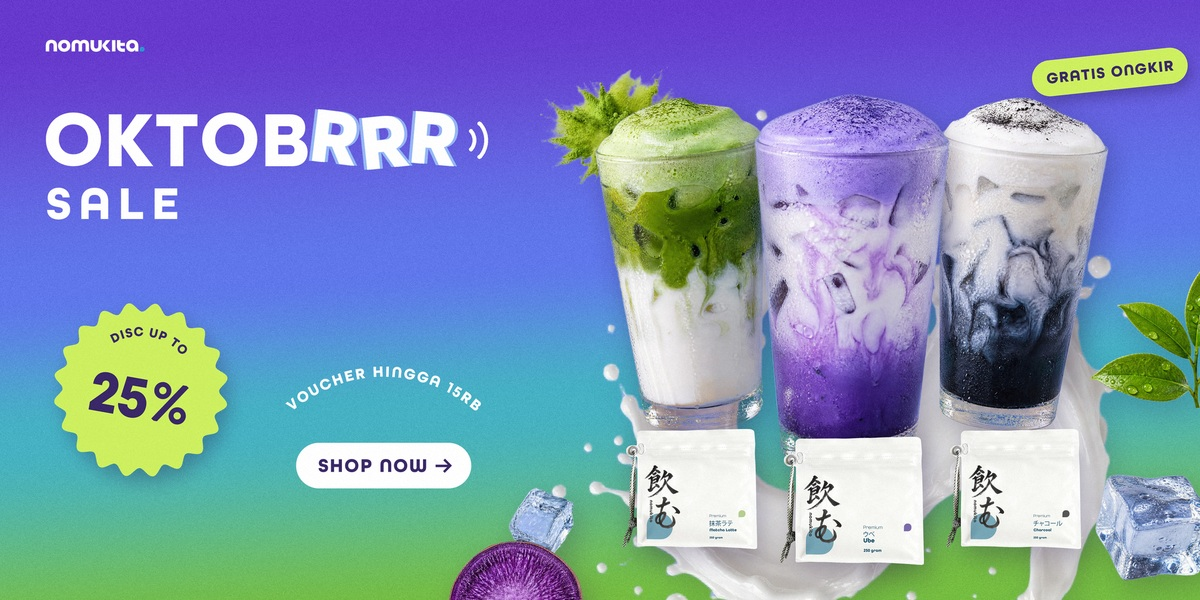
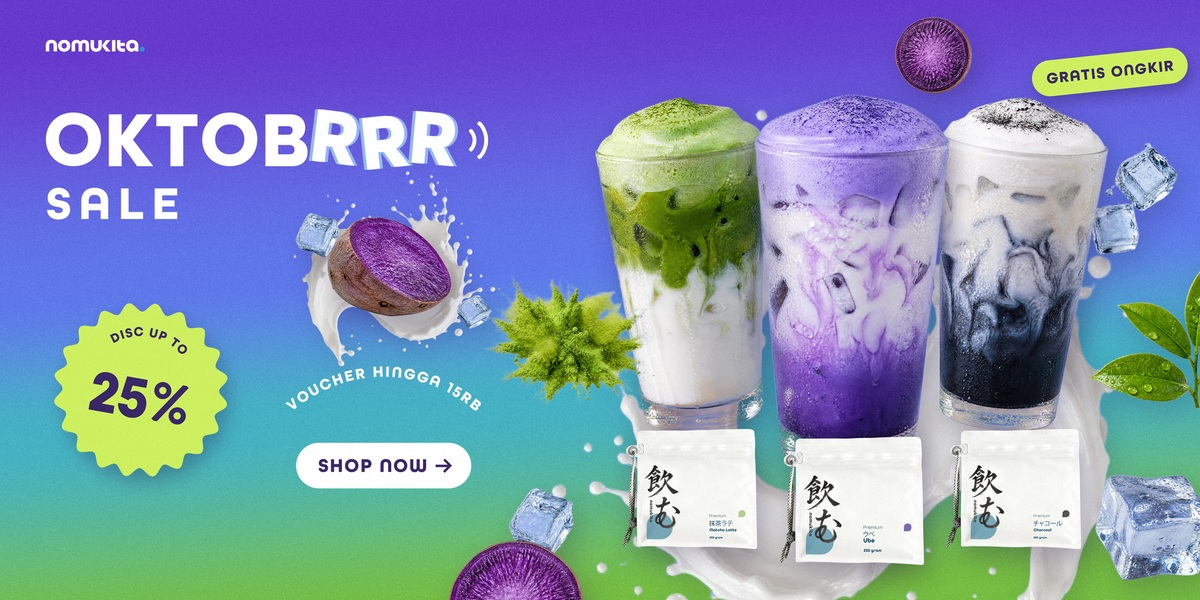
OKTOBRRR 2:1: richer ingredients, front matcha burst
Floating ube half on a small milk splash fills the space above the
voucher arc, extra ice cubes and a small ube slice, and the matcha
powder now bursts in front of the matcha glass toward the CTA.

Claude-Session: https://claude.ai/code/session_01Bv3a5UzTxRJwy8L4VxmgVZ

diff --git a/banners/marketplace-iced-latte/layouts.py b/banners/marketplace-iced-latte/layouts.py
@@ -736,3 +736,30 @@ OW1.update(head="OKTOBRRR", head_x=72, head_y=150, head_size=132, head_tr=0, hea
 OW1["texts"] = [dict(s="SALE", x=76, y=282, size=78, tr=12)] + SW2["texts"][1:]
 OW2 = dict(OW1); OW2.update(head_y=182)
 OW2["texts"] = [dict(s="SALE", x=76, y=314, size=78, tr=12)] + SW2["texts"][1:]
+
+# 2:1 richer: more ube / matcha / milk / ice, matcha powder bursting in FRONT, floating ube over a milk splash
+OW3 = dict(OW2)
+OW3["back"] = [
+    X1["back"][0],                                                                   # milk wave behind the trio
+    dict(name="milk", cx=640, cy=470, height=430, rot=-62, flip=True, shadow=0.14),  # second splash carrying the ube
+    X1["back"][2],                                                                   # tea leaves, right edge
+]
+OW3["mid"] = [
+    dict(name="ubeslice_S", cx=1556, cy=92, width=118, rot=-20, shadow=0.26),
+    dict(name="icecube_0", cx=1885, cy=330, width=170, rot=8, shadow=0.22),
+] + [it for it in X1["mid"] if it["name"] != "ubeslice_M"]
+OW3["front"] = X1["front"] + [
+    dict(name="ubehalf_single", cx=650, cy=470, width=230, rot=-16, shadow=0.3),
+    dict(name="icecube_1", cx=520, cy=405, width=86, rot=24, shadow=0.22),
+    dict(name="icecube_1", cx=800, cy=545, width=64, rot=-12, shadow=0.2),
+    dict(name="matcha_pw", cx=940, cy=560, width=300, rot=-18, shadow=0),
+]
+OW4 = dict(OW3)
+OW4["back"] = [X1["back"][0], dict(name="milk", cx=650, cy=445, height=310, rot=-70, flip=True, shadow=0.14), X1["back"][2]]
+OW4["mid"] = [dict(OW3["mid"][0], width=132)] + OW3["mid"][1:]
+OW4["front"] = X1["front"] + [
+    dict(name="ubehalf_single", cx=652, cy=448, width=215, rot=-16, shadow=0.3),
+    dict(name="icecube_1", cx=530, cy=392, width=80, rot=24, shadow=0.22),
+    dict(name="icecube_1", cx=790, cy=520, width=60, rot=-12, shadow=0.2),
+    dict(name="matcha_pw", cx=950, cy=575, width=300, rot=-18, shadow=0),
+]

diff --git a/banners/marketplace-iced-latte/README.md b/banners/marketplace-iced-latte/README.md
@@ -17,6 +17,9 @@ Versi aktif: campaign OKTOBRRR SALE
 - Teks promo tetap tersebar sebagai elemen lucu: badge bergerigi lime DISC UP TO 25%, teks melengkung
   VOUCHER HINGGA 15RB, stiker miring GRATIS ONGKIR, tombol SHOP NOW.
 - Visual, ornamen, dan pouch asli sama dengan versi sebelumnya.
+- 2:1 diperkaya: ube terbelah melayang di atas cipratan susu kecil (mengisi ruang di atas teks voucher),
+  es batu tambahan, irisan ube kecil di antara gelas, dan bubuk matcha dipindah ke DEPAN gelas matcha,
+  meledak ke arah tombol SHOP NOW.
 
 Versi SRUUUPUT (diarsipkan di archive-sruuuput)
 - Headline berupa bunyi menyeruput: SRUUUPUT. Tidak menjelaskan produk; bunyinya membuat orang membayangkan
@@ -73,7 +76,7 @@ Visual
 - Prompt di `source/`, potongan aset di `parts/`.
 
 Mengubah layout tanpa kredit
-- Semua posisi ada di `layouts.py` (aktif: OB4 = 3:4, OQ1 = 1:1, OW2 = 2:1; SRUUUPUT: SP6, SQ2, SW2; CHILL SALE: T4, U2, X2; clean polos: C2, S5, W7; promo ramai: P3, S4, W6; tanpa promo: V6, S3, W3). Jalankan `python3 poster.py V6 out`.
+- Semua posisi ada di `layouts.py` (aktif: OB4 = 3:4, OQ1 = 1:1, OW4 = 2:1; SRUUUPUT: SP6, SQ2, SW2; CHILL SALE: T4, U2, X2; clean polos: C2, S5, W7; promo ramai: P3, S4, W6; tanpa promo: V6, S3, W3). Jalankan `python3 poster.py V6 out`.
 - Path di skrip mengarah ke scratchpad sesi; sesuaikan `ROOT` bila dijalankan di tempat lain.
 
 Kredit kie.ai: 33 (3 render GPT Image 2 2K + 3 remove-background).
